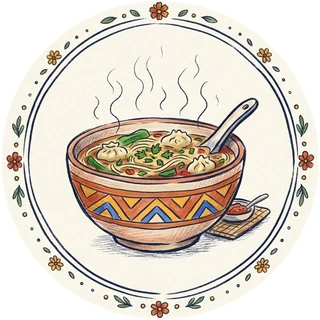
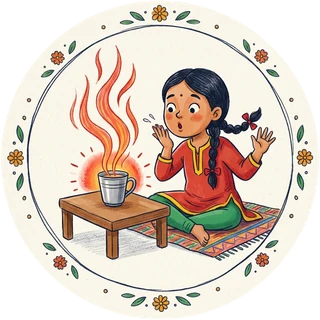
New hot picture: Maya pulls back from a hot cup of chiya
Claude-Session: https://claude.ai/code/session_01A6cqvukmGzNfd7ELHZfxac

diff --git a/public/img-manifest.js b/public/img-manifest.js
@@ -96,7 +96,7 @@ window.IMG = {
  "w-hat": "img/w-hat.webp?v=86d65765",
  "w-head": "img/w-head.webp?v=e8ab3102",
  "w-hello": "img/w-hello.webp?v=65d1f6c0",
- "w-hot": "img/w-hot.webp?v=68895600",
+ "w-hot": "img/w-hot.webp?v=e345ff7f",
  "w-i-am-full": "img/w-i-am-full.webp?v=6500e109",
  "w-i-am-hungry": "img/w-i-am-hungry.webp?v=451c3291",
  "w-i-am-scared": "img/w-i-am-scared.webp?v=1709a863",
